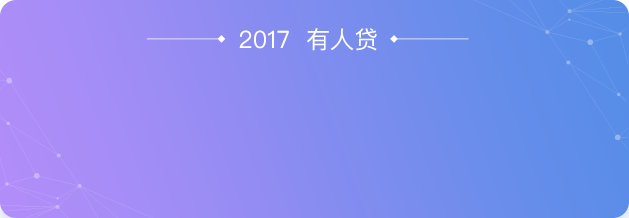
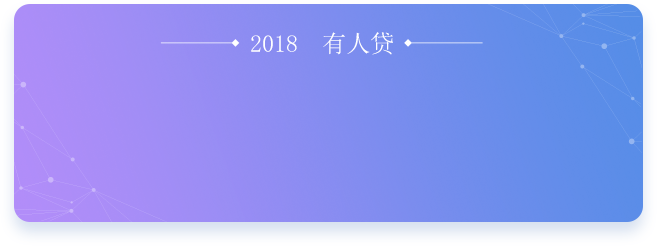
优化

diff --git a/yrd-wap/src/components/recommend/recommend.vue b/yrd-wap/src/components/recommend/recommend.vue
@@ -23,7 +23,7 @@
             </div>
           </div>
           <div class="recommed-group">
-            <ul class="recommed-group-list">
+            <ul class="recommed-group-list" :class="XNTime()">
               <li class="recommed-group-item">
                 <router-link tag="div" to="/recommend/platform">
                   <div class="item-icons item-icons-1"></div>
@@ -33,7 +33,7 @@
               <li class="recommed-group-item">
                 <router-link tag="div" to="/recommend/packs">
                   <div class="item-icons item-icons-2">
-                    <span class="item-new-num" v-if="hbNum > 0">{{hbNum}}</span>
+                    <span class="item-new-num-wrapper" v-if="hbNum > 0"><span class="item-new-num">{{hbNum}}</span></span>
                   </div>
                   <p class="item-text">现金红包</p>
                 </router-link>
@@ -47,14 +47,14 @@
               <li class="recommed-group-item">
                 <div @click="latestNews">
                   <div class="item-icons item-icons-4">
-                    <span class="item-new-num" v-if="newsNum > 0">{{newsNum}}</span>
+                    <span class="item-new-num-wrapper" v-if="newsNum > 0"><span class="item-new-num">{{newsNum}}</span></span>
                   </div>
                   <p class="item-text">最新消息</p>
                 </div>
               </li>
             </ul>
           </div>
-          <div class="recommed-new-user">
+          <div class="recommed-new-user" :class="XNTime()">
             <div class="recommed-new-user-info">
               <p class="name">新手专享</p>
               <p class="desc"><span class="num">1888</span>元现金红包</p>
@@ -66,7 +66,7 @@
               <router-link class="list-btn" to="/product-list">查看更多</router-link>
               <!-- <span class="pro-bz" v-if="item.is_open === 'yes'"><span class="open-txt">{{item.content}}</span></span> -->
             </h3>
-            <div v-if="disclist.length" class="slider-wrapper">
+            <div v-if="disclist.length" class="slider-wrapper" :class="XNTime()">
               <div class="slider-content">
                 <div class="product-message-item swiper-slide swiper-no-swiping">
                   <p class="return"><span class="num">{{item.year_rate}}</span>%</p>
@@ -117,6 +117,9 @@
   import {getIndexData} from 'api/index'
   import {mapGetters, mapActions} from 'vuex'
 
+  const STARTTIME = new Date('2018-02-09 17:00:00').getTime()
+  const ENDTIME = new Date('2018-02-21 23:59:59').getTime()
+  const NOWTIME = new Date().getTime()
   export default {
     data () {
       return {
@@ -144,6 +147,12 @@
       this.$refs.scroll.refresh()
     },
     methods: {
+      XNTime () {
+        if (STARTTIME < NOWTIME && NOWTIME < ENDTIME) {
+          return 'XN2018'
+        }
+        return ''
+      },
       scroll (pos) {
         if (pos.y < 0) {
           this.opcity = Math.abs(pos.y / 44)
@@ -291,6 +300,25 @@
         .slider-wrapper
           position: relative
           padding-bottom: 30px
+          &.XN2018
+            bg-image('/static/img/xn-2018-6')
+            background-size: 100% 90px
+            background-position: center
+            background-repeat: no-repeat
+            .slider-content
+              background: inherit
+              .product-message-item
+                .details-btn
+                  width: 228px
+                  height: 36px
+                  bg-image('/static/img/xn-2018-5')
+                  background-position: center
+                  background-size: 228px 36px
+                  background-repeat: no-repeat
+                  border-radius: 0px
+                  background-color: inherit
+                  .btn-txt
+                    color: #fdca83
           .slider-content
             background: $color-text
             .product-message-item
@@ -367,10 +395,43 @@
       .recommed-group
         width: 100%
         .recommed-group-list
-          margin-bottom: 5px;
-          padding: 25px 20px;
-          background-color: $color-text
           display: flex
+          margin-bottom: 5px
+          padding: 25px 20px
+          background-color: $color-text
+          &.XN2018
+            bg-image('/static/img/xn-2018-0')
+            background-repeat: no-repeat
+            background-size: 94% 100px
+            background-position: center
+            .recommed-group-item
+              .item-icons
+                &.item-icons-1
+                  bg-image('/static/img/xn-2018-1')
+                &.item-icons-2
+                  bg-image('/static/img/xn-2018-2')
+                &.item-icons-3
+                  bg-image('/static/img/xn-2018-3')
+                &.item-icons-4
+                  bg-image('/static/img/xn-2018-4')
+                .item-new-num-wrapper
+                  right: -14px
+                  top: -12px
+                  padding: 2px
+                  .item-new-num
+                    display: inline-block
+                    background-color: #ff5a00
+                    border-radius: 100%
+                    border: 2px solid #fff
+                    padding: 5px
+                    color: $color-text
+                    font-size: $font-size-medium-x
+                    min-width: 18px
+                    height: 18px
+                    text-align: center
+                    line-height: 18px
+              .item-text
+                color: #666
           .recommed-group-item
             flex: 1
             text-align: center
@@ -382,7 +443,7 @@
               width: 45px
               height: 45px
               background-size: 45px 45px
-              .item-new-num
+              .item-new-num-wrapper
                 position: absolute
                 right: -8px
                 top: -8px
@@ -393,10 +454,6 @@
                 color: $color-text
                 font-size: $font-size-medium-x
                 transform: scale(0.5)
-                min-width: 18px
-                height: 18px
-                text-align: center
-                line-height: 18px
               &.item-icons-1
                 bg-image('lj')
               &.item-icons-2
@@ -416,6 +473,9 @@
         bg-image('new-user')
         background-size: 90px 90px
         background-position: 90% center
+        &.XN2018
+          background-size: 116px 98px
+          bg-image('/static/img/xn-2018-12')
         .recommed-new-user-info
           width: 200px
           text-align: center

diff --git a/yrd-wap/src/components/subscription/subscription.vue b/yrd-wap/src/components/subscription/subscription.vue
@@ -41,7 +41,7 @@
         </div>
         <div class="reward-wrapper">
           <h3 class="title border-1px-b">使用平台奖励</h3>
-          <ul class="reward-group" v-show="rewardList.length > 0">
+          <!-- <ul class="reward-group" v-show="rewardList.length > 0">
             <li class="reward-item" v-for="(reward, index) in rewardList">
               <div class="reward-view-wrapper" :class="{'selected': reward.selected}" @click="selectReward(index)">
                 <div class="reward-bg"><span class="reward-val">{{ckeckVal(reward)}}</span><span class="reward-name">{{reward.rewardName}}</span></div>
@@ -58,8 +58,10 @@
                 </div>
               </div>
             </li>
-          </ul>
-          <div class="air-reward" v-show="!rewardList.length || rewardList.length === 0">暂无奖励可用~</div>
+          </ul> -->
+          <!-- v-show="rewardList.length > 0" -->
+          <div class="air-reward">暂不支持使用奖励券，如有奖励券，<br/>请到<a class="styl" :href="getPc()">电脑</a>或<a class="styl" @click="downLoadApp">下载APP</a>使用</div>
+          <!-- <div class="air-reward" v-show="!rewardList.length || rewardList.length === 0">暂无奖励可用~</div> -->
         </div>
       </div>
     </scroll>
@@ -73,6 +75,7 @@
   import FootBtn from 'base/foot-btn/foot-btn'
   import TopTip from 'base/top-tip/top-tip'
   import {subscription, getRewardList} from 'api/user'
+  import {_UA} from 'common/js/ua'
   import {mapGetters} from 'vuex'
 
   export default {
@@ -109,6 +112,20 @@
       ])
     },
     methods: {
+      downLoadApp () {
+        if (_UA.isWeixin()) {
+          window.alert('请使用浏览器打开！！！')
+        } else {
+          if (_UA.isIOS()) {
+            location.href = 'https://itunes.apple.com/cn/app/you-ren-dai/id923214967?mt=8'
+          } else {
+            location.href = 'http://www.yourendai.com/app_download/YouRenDai.apk'
+          }
+        };
+      },
+      getPc () {
+        return `/loan/order2.0.shtml?projectId=${this.projectId}&loanMoney=${this.loanMoney}`
+      },
       submitFuc () {
         if (!this.realed) {
           const reg = /^[\u4e00-\u9fa5]+$/gi
@@ -235,7 +252,7 @@
         })
         this.selectItems.forEach((rewardItem) => {
           this.reward += `${rewardItem.rewardId}_${rewardItem.investAmount},`
-          this.rewardType += `${rewardItem.rewardEnName},`
+          this.rewardType += `${rewardItem.reward_type_name_ch},`
           this.rewardLines += `${rewardItem.rewardLines},`
         })
 
@@ -439,8 +456,13 @@
                     color: $color-tle
                     text-align: center
           .air-reward
-            line-height: 54px
+            padding-top: 30px;
+            line-height: 30px
             text-align: center
             font-size: $font-size-small
             color: $color-q
+            .styl
+              display: inline-block
+              padding: 0 5px
+              color: #ff4e49
 </style>

diff --git a/yrd-wap/src/components/tab/tab.vue b/yrd-wap/src/components/tab/tab.vue
@@ -1,5 +1,5 @@
 <template>
-  <div class="m-footer">
+  <div class="m-footer" :class="XNTime()">
     <div class="tab border-1px">
       <router-link tag="div" class="tab-item" to="/recommend" :class="{'link-active': activeIndex === 0}">
         <div class="tab-icon tab-icon-1"></div>
@@ -24,6 +24,10 @@
 <script>
   import {mapGetters, mapActions} from 'vuex'
 
+  const STARTTIME = new Date('2018-02-09 17:00:00').getTime()
+  const ENDTIME = new Date('2018-02-21 23:59:59').getTime()
+  const NOWTIME = new Date().getTime()
+
   export default {
     props: {
       activeIndex: {
@@ -37,6 +41,12 @@
       ])
     },
     methods: {
+      XNTime () {
+        if (STARTTIME < NOWTIME && NOWTIME < ENDTIME) {
+          return 'XN2018'
+        }
+        return ''
+      },
       lookAssets() {
         if (this.changeLoginState === '') {
           this.changeReturnPath(this.$route.path)
@@ -62,6 +72,39 @@
     left: 0
     bottom: 0
     width: 100%
+    &.XN2018
+      bg-image('/static/img/xn-2018-7')
+      background-size: 100% 50px
+      background-position: center
+      background-repeat: no-repeat
+      .tab
+        background: inherit
+        .tab-item
+          .tab-link
+            color: #6c2311
+          .tab-icon
+            background-size: auto 24px
+            &.tab-icon-1
+              bg-image('/static/img/xn-2018-8-1')
+            &.tab-icon-2
+              bg-image('/static/img/xn-2018-9-1')
+            &.tab-icon-3
+              bg-image('/static/img/xn-2018-10-1')
+            &.tab-icon-4
+              bg-image('/static/img/xn-2018-11-1')
+          &.link-active
+            .tab-link
+              color: #6c2311
+            .tab-icon
+              background-size: auto 26px
+              &.tab-icon-1
+                bg-image('/static/img/xn-2018-8')
+              &.tab-icon-2
+                bg-image('/static/img/xn-2018-9')
+              &.tab-icon-3
+                bg-image('/static/img/xn-2018-10')
+              &.tab-icon-4
+                bg-image('/static/img/xn-2018-11')
     .tab
       display: flex
       height: 50px

diff --git a/yrd-wap/src/components/disclosure/disclosure.vue b/yrd-wap/src/components/disclosure/disclosure.vue
@@ -41,7 +41,7 @@
           <div class="swiper-slide">
             <img src="./disclosureBg4.jpg" class="bgPic">
             <img src="./mouthBg.png" class="yrdPic3 content-img">
-            <p class="mouthP1">11月运营报告</p>
+            <p class="mouthP1">1月运营报告</p>
             <a class="lookbtn" href="/loan/h5/app-report.shtml">
               <img src="./lookBtn.png" width="55%">
             </a>
@@ -209,8 +209,8 @@
         toopacity: 1
     .content-img
       position: absolute
-      width: 90%
-      left: 5%
+      width: 94%
+      left: 3%
       top: 43%
     .yrdPic1
       top: 45%
@@ -246,7 +246,7 @@
       font-size: 18px
       color: #fff
       left: 50%
-      top: 54%
+      top: 56%
       width: 100%
       text-align: center
       transform: translate3d(-50%, -50%, 0)
